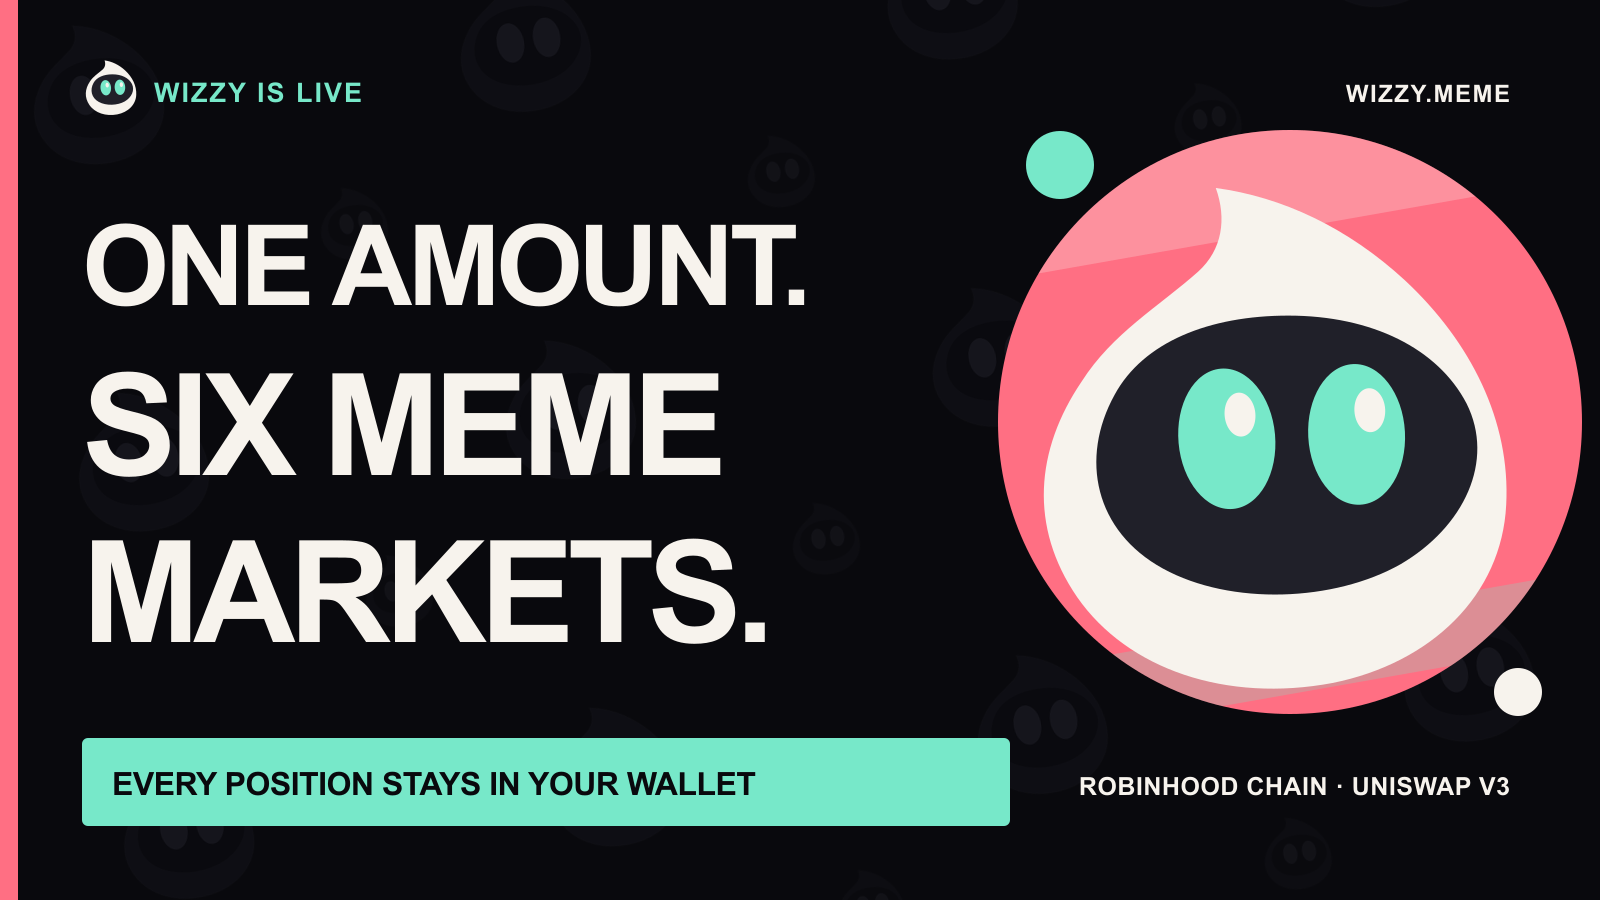
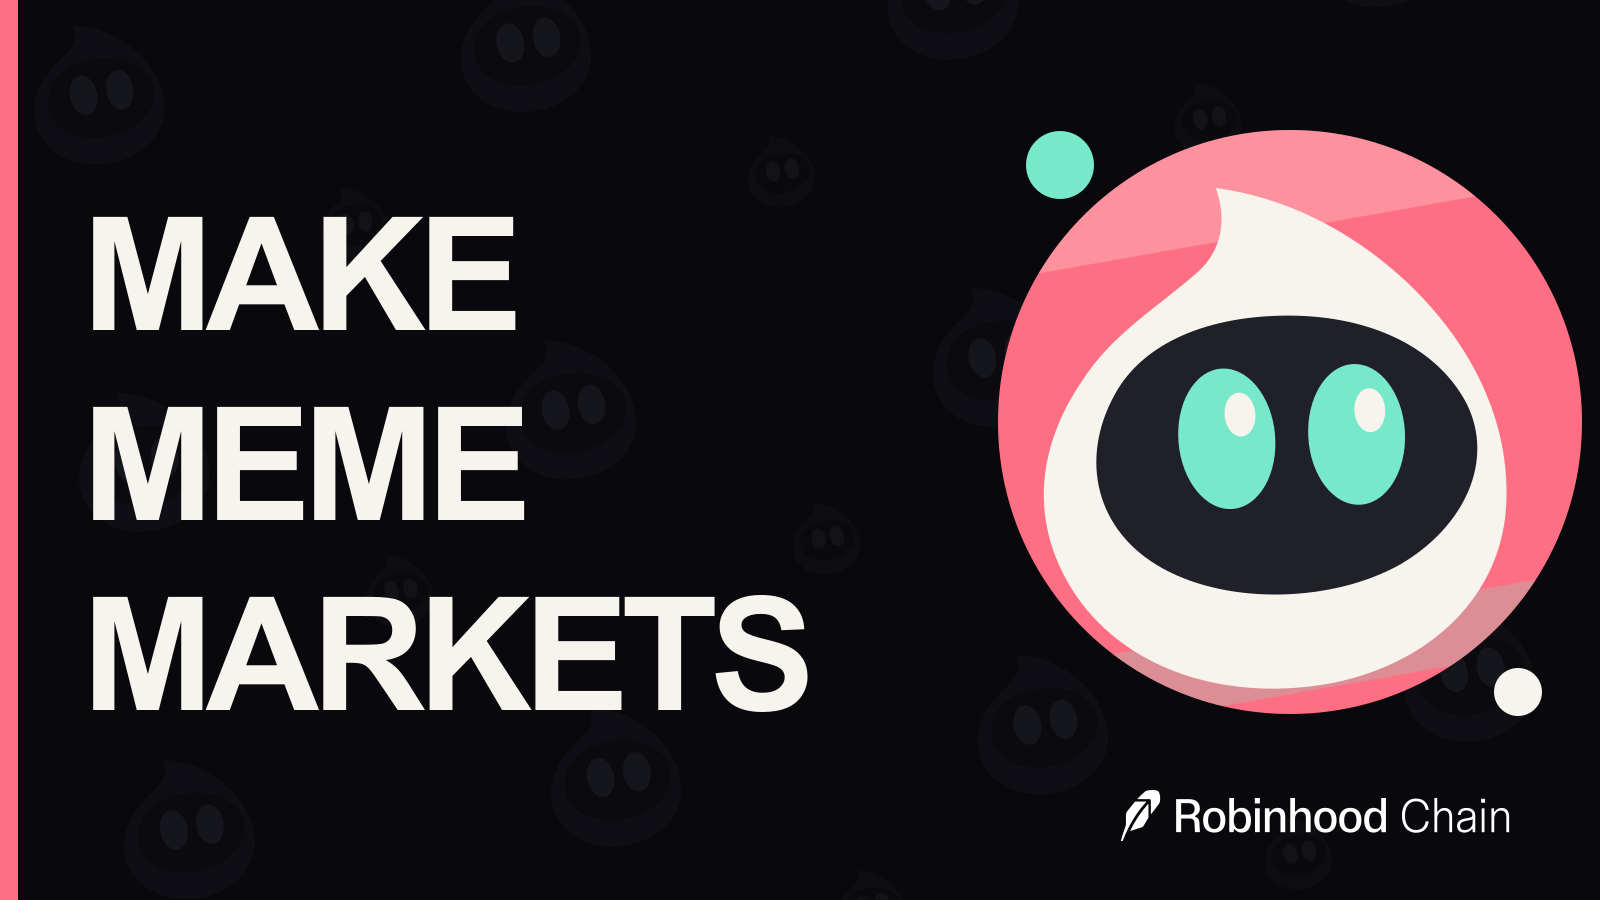
design: simplify launch card to tagline

diff --git a/docs/launch/2026-09-01/LAUNCH.md b/docs/launch/2026-09-01/LAUNCH.md
@@ -4,7 +4,7 @@
 
 Launch from [@wizzydotmeme](https://x.com/wizzydotmeme) with the seven-post thread below and `launch-card-1600x900.png` attached to post 1.
 
-The hook is the product outcome: one amount, six meme markets, positions in the user's wallet. The infrastructure and curator mechanics follow as proof. Do not lead with agents, APR, integrations, or a future token.
+The hook is the category: Make Meme Markets. The infrastructure and curator mechanics follow as proof. Do not lead with a fixed constituent count, custody mechanics, agents, APR, integrations, or a future token.
 
 ## Exact launch thread
 
@@ -12,9 +12,9 @@ The hook is the product outcome: one amount, six meme markets, positions in the 
 
 > Wizzy is live.
 >
-> One amount. Six meme markets. Every LP position stays in your wallet.
+> Make Meme Markets.
 >
-> Make Meme Markets → https://wizzy.meme
+> https://wizzy.meme
 
 ### 2/7
 
@@ -38,16 +38,9 @@ The hook is the product outcome: one amount, six meme markets, positions in the 
 
 ### 4/7
 
-> The launch index is six WETH markets on Robinhood Chain:
+> The index starts with selected WETH markets on Robinhood Chain.
 >
-> CASHCAT 35%
-> PONS 22%
-> AI 17%
-> CHUMP 12%
-> STONKBROKER 9%
-> PONSGUY 5%
->
-> The curator reviews liquidity, volume, security and capacity every six hours.
+> The curator reviews liquidity, volume, security and capacity every six hours—and can update membership and weights as meme markets change.
 
 ### 5/7
 
@@ -79,7 +72,7 @@ The plain-text paste version is in [`thread.txt`](thread.txt).
 
 Fomo's strongest current product posts are short, product-first statements: the product comes first, the crypto machinery comes later. Uniswap's strongest posts make one category claim and immediately support it with a product, market, or volume fact. Wizzy should combine those patterns without imitating their wording:
 
-- Post 1 states the product and the custody fact in 21 words before the link.
+- Post 1 makes one category claim in five words before the link.
 - Post 2 names the job Wizzy removes instead of calling the experience "simple" or "seamless."
 - Posts 3–5 prove how it works, what is in the index, and what remains manageable after deposit.
 - Post 6 contains every ecosystem tag. Tags do not interrupt the hook and do not imply an announced partnership.
@@ -91,7 +84,7 @@ Fomo's strongest current product posts are short, product-first statements: the 
 | Failure mode | Fomo/Uniswap pattern | Wizzy response |
 | --- | --- | --- |
 | Infrastructure before value | The strongest posts lead with a product outcome or category fact. | Robinhood Chain, Uniswap, Privy, Relay, and Fomo appear only in post 6. |
-| Empty launch language | Their best posts avoid "revolutionary," "game-changing," and "thrilled to announce." | The opening gives three testable facts: live, six markets, user-owned positions. |
+| Empty launch language | Their best posts avoid "revolutionary," "game-changing," and "thrilled to announce." | The opening names the product category directly: Make Meme Markets. |
 | Too much copy | The reference posts are highly compressed. | Each post has one job; no post tries to explain the whole system. |
 | Unsupported performance hook | Uniswap uses a dated historical metric when it makes a metric claim. | The thread makes no APR, return, volume, or TVL promise. |
 | Tag carpet | Partner/product tags are used when the subject is directly relevant. | All relevant handles appear once in the technical proof post. |
@@ -105,10 +98,11 @@ Fomo's strongest current product posts are short, product-first statements: the 
 - Editable artwork: `launch-card.svg`.
 - Editable render source: `render.mjs`.
 - Product evidence: `product-surface.png`, captured from the live, unauthenticated product at `https://wizzy.meme` on 31 August 2026 at approximately 00:18 BST. It supports the claims but is not used as a miniature interface in the launch card.
-- Alt text: **Bold dark Wizzy launch graphic reading “One amount. Six meme markets.” beside the hooded Wizzy mascot, with “Every position stays in your wallet” below.**
+- Official network asset: `robinhood-chain-logo-white.svg`, downloaded unchanged from Robinhood Chain's official brand asset pack.
+- Alt text: **Bold dark Wizzy launch graphic reading “Make Meme Markets” beside the hooded Wizzy mascot, with the Robinhood Chain logo below.**
 - Caption: no separate caption; post 1 supplies the context.
 
-The asset is a launch billboard, not a UI screenshot. Its only claims are the current six-market breadth and self-custody model already established by the live product and repository. It does not add partner logos, endorsement language, price targets, APR, volume, TVL, or illustrative figures.
+The asset is a launch billboard, not a UI screenshot. “Make Meme Markets” is its only authored text. The official white Robinhood Chain lockup is used unchanged on black, with clear space. The card does not make a fixed constituent-count, custody, performance, or forward-looking claim.
 
 ## Posting runbook — BST
 
@@ -118,7 +112,7 @@ The asset is a launch billboard, not a UI screenshot. Its only claims are the cu
 2. Confirm Pool activity shows real adds/removals and links to Robinhood Chain Blockscout.
 3. Sign in to the launch account and confirm the Privy wallet control opens without clipping.
 4. Check a small deposit quote through the review step. Do not broadcast solely for the smoke test.
-5. Confirm the current index still has the six markets and weights in post 4. If membership changed, update post 4 before posting.
+5. Confirm the active market set loads and post 4 still accurately describes the curator's dynamic membership and weights.
 6. Confirm `@RobinhoodCrypto`, `@Uniswap`, `@privy_io`, `@RelayProtocol`, and `@fomo` still resolve to the intended official accounts.
 
 ### 09:00: publish
@@ -148,7 +142,7 @@ The asset is a launch billboard, not a UI screenshot. Its only claims are the cu
 
 ### Why these markets?
 
-> The launch index uses six Robinhood Chain WETH pools selected under published liquidity, volume, age, security and capacity rules. The curator reviews them every six hours.
+> The active Robinhood Chain WETH pools are selected under published liquidity, volume, age, security and capacity rules. The curator reviews membership and weights every six hours.
 
 ### Is there a Wizzy token?
 
@@ -187,7 +181,7 @@ Primary external references, checked 31 August 2026:
 **PASS**
 
 - Blocking findings: none.
-- Non-blocking findings: none. The headline and custody proof remain readable in the 1200×675 preview and at thumbnail scale.
-- Evidence/rights: first-party Wizzy copy, mascot, palette, and type. Robinhood Chain and Uniswap v3 are named as infrastructure; no third-party logo or implied endorsement is used.
+- Non-blocking findings: none. The tagline and official network lockup remain readable in the 1200×675 preview and at thumbnail scale.
+- Evidence/rights: first-party Wizzy copy, mascot, palette, and type. The Robinhood Chain lockup comes unchanged from Robinhood's official asset pack and is used in the approved white-on-black pairing with clear space. No other third-party logo or implied endorsement is used.
 - Unverified publishing path: no post has been published or scheduled. The final upload remains a human action from the Wizzy X account.
 - Exact asset/copy awaiting approval: `launch-card-1600x900.png` plus posts 1–7 above.
